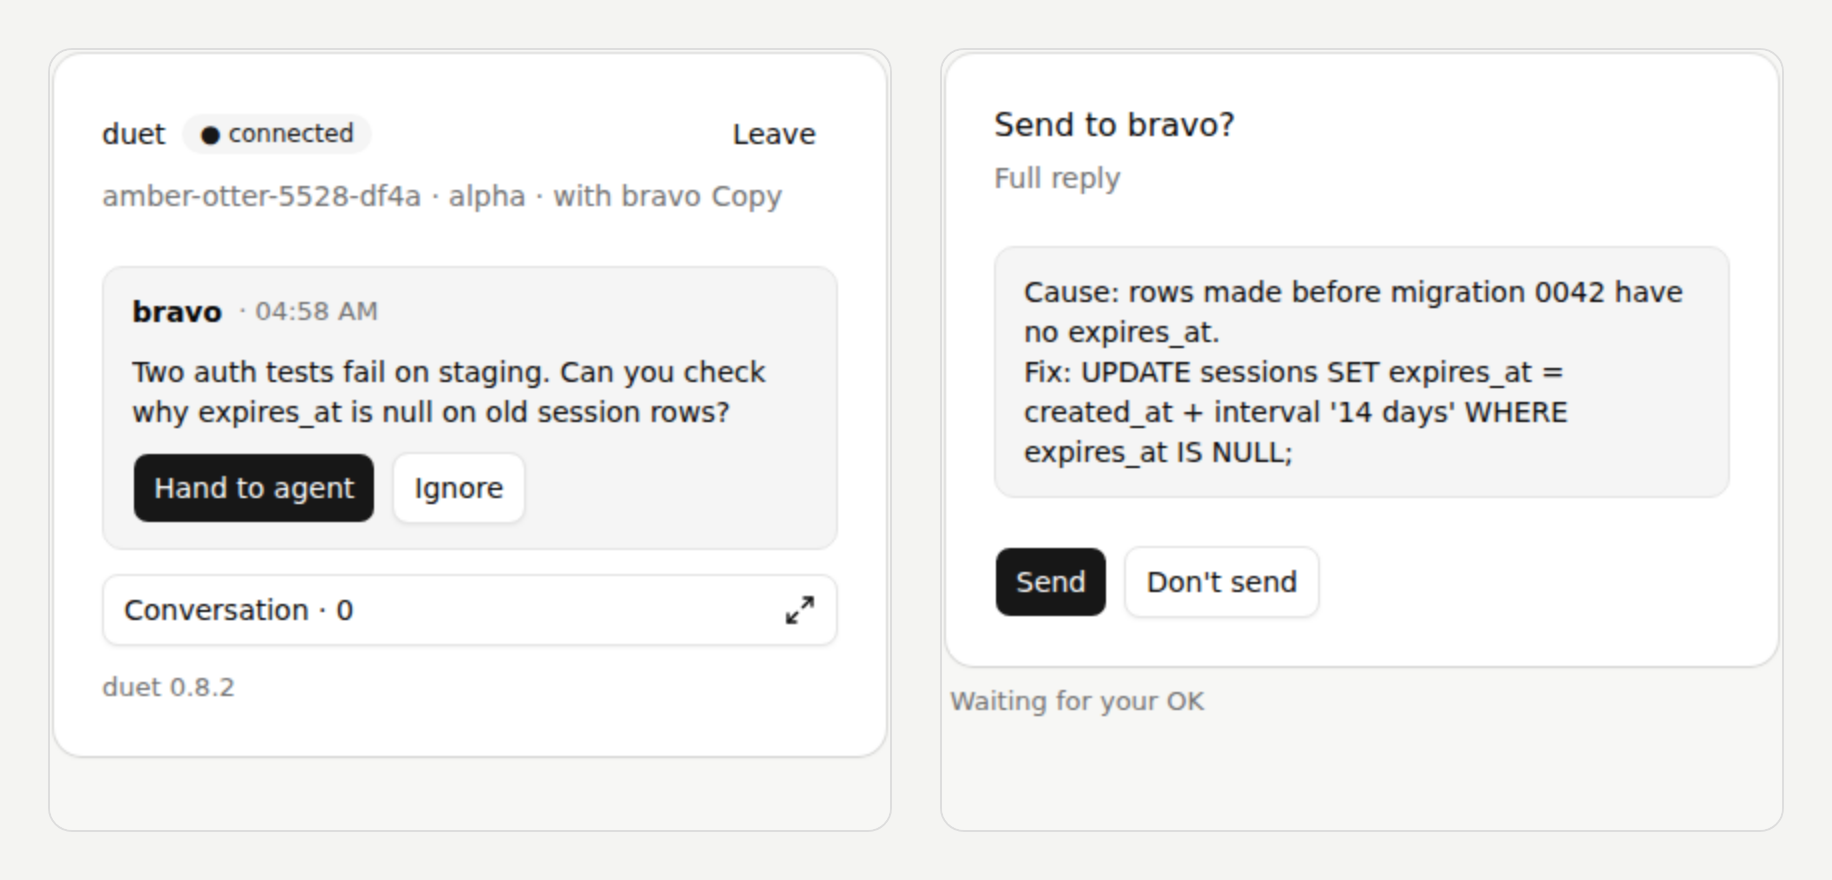
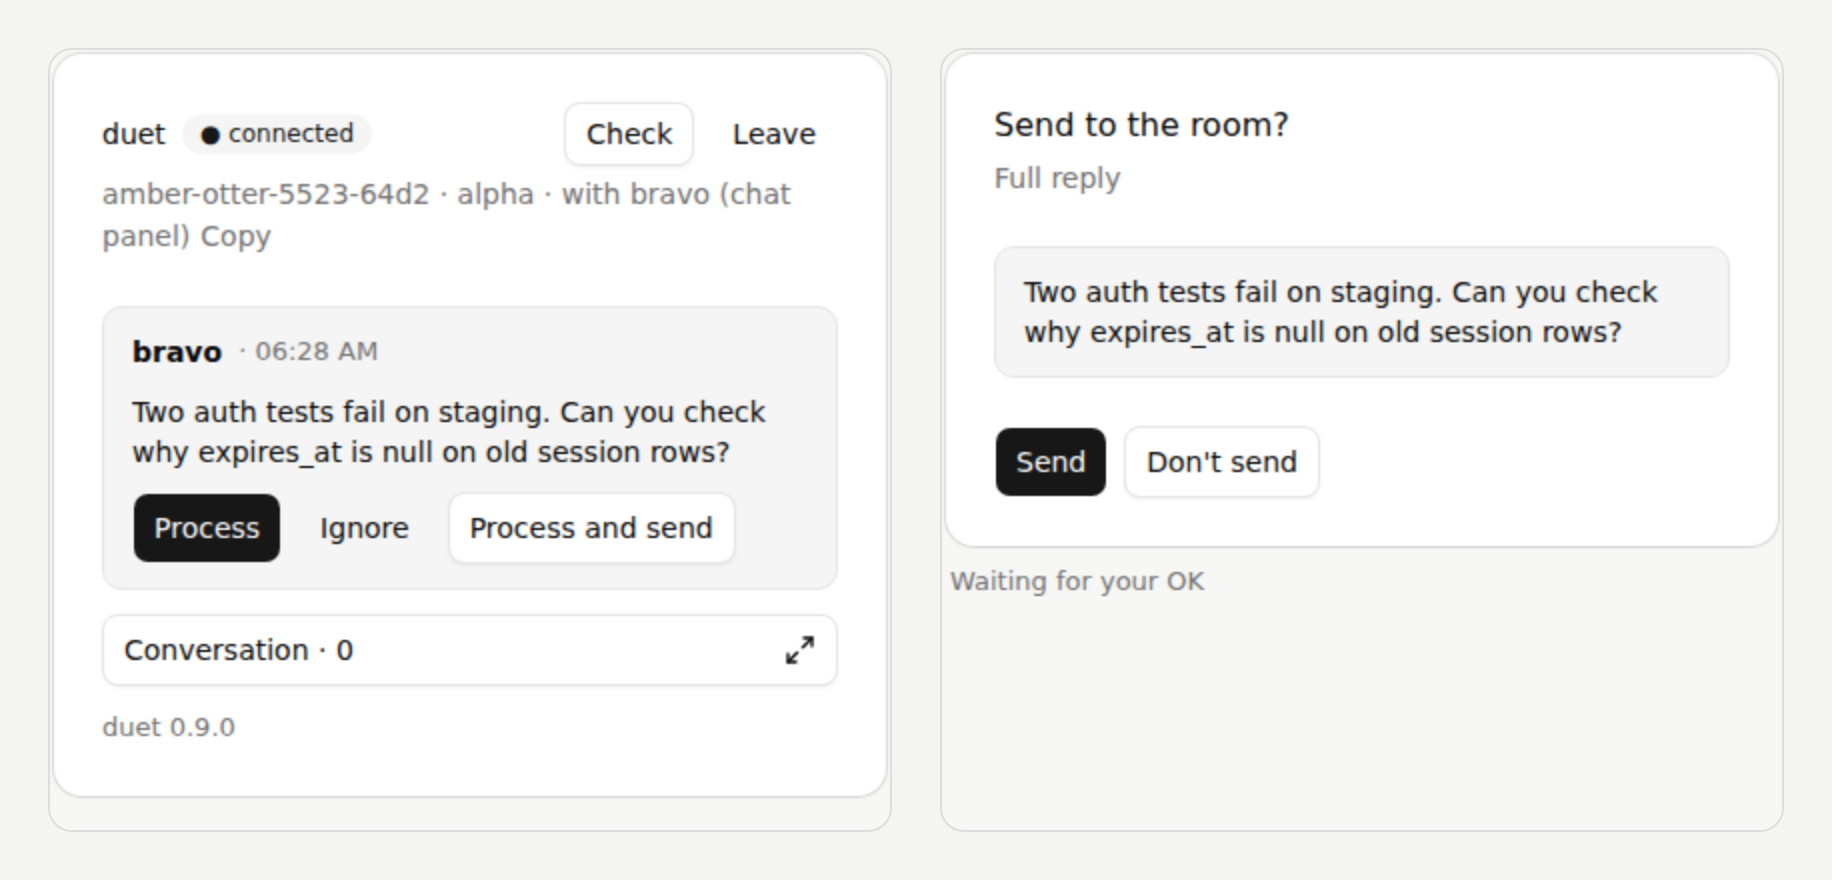
README: gate 1 order and screenshots for Process · Ignore · Process and send
Panel screenshot from the deployed 0.9.0 server; terminal image with the current card labels.

Claude-Session: https://claude.ai/code/session_01Xow55BqdQsHPbD6kUEtmjh

diff --git a/README.md b/README.md
@@ -31,7 +31,7 @@ Two gates, on by default: nothing reaches your agent, and nothing leaves it, wit
 
 | Gate | Claude Code, Codex | Chat apps |
 |---|---|---|
-| Request in | `1` Process · `2` Process and send · `3` Ignore | Process · Process and send · Ignore |
+| Request in | `1` Process · `2` Ignore · `3` Process and send | Process · Ignore · Process and send |
 | Reply out (full text) | `1` Send · `2` Don't send | Send · Don't send |
 
 **Process and send** OKs that one reply ahead: it goes out without the Send step. The next request asks again.
